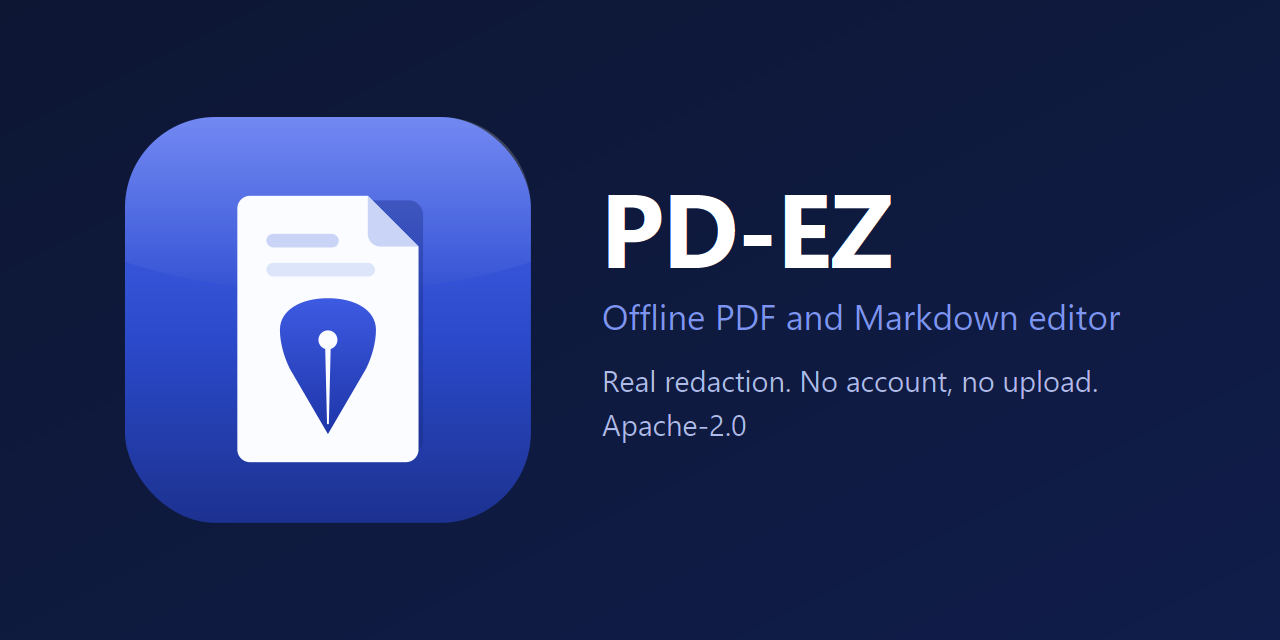
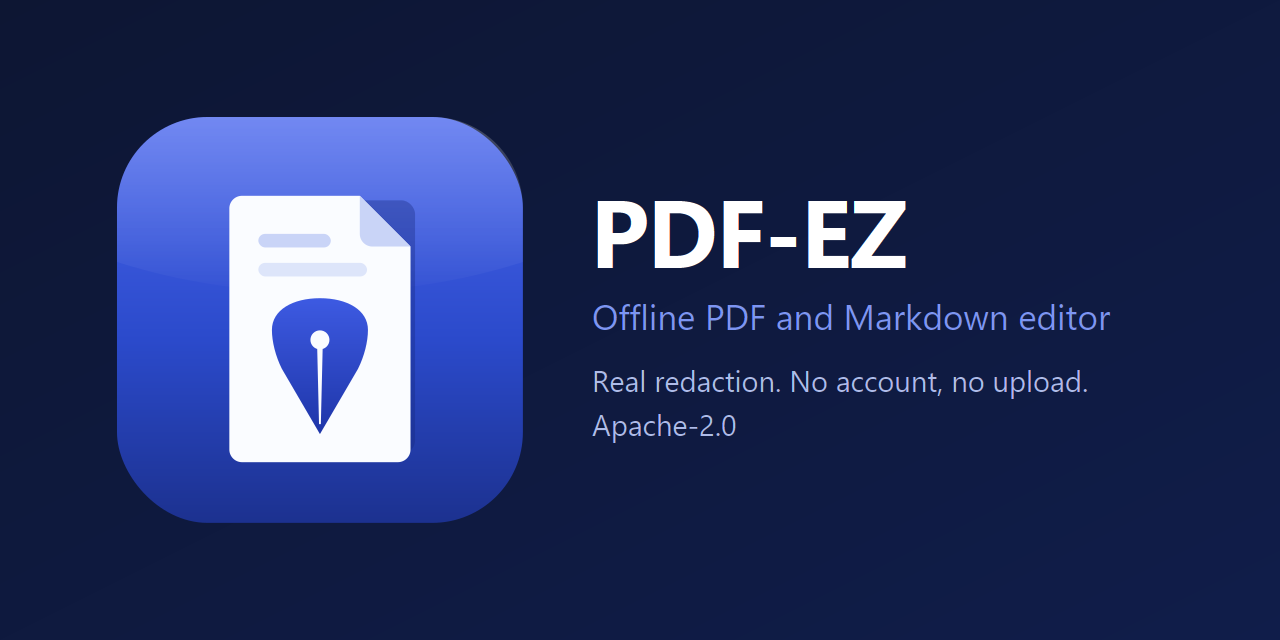
chore: rename the product PD-EZ -> PDF-EZ
Buga's call. "PDFer" was considered first and rejected: PDFer is already a
shipping PDF editor on Google Play (com.muzaffer.cinar.pdfer), so it would have
collided head-on in the same category. No exact PDF-EZ collision found.

DISPLAY NAME ONLY. The 41 "PD-EZ" strings across 19 files became "PDF-EZ".
The internal identifiers were deliberately left alone:

- `ai.zugabot.pdez` (tauri.conf.json identifier) — this is where Windows keys
  the app's data directory and the installer's upgrade path. Changing it
  orphans the settings and license lease of anyone who already installed, for
  zero user-visible benefit.
- `pdez` as the lease `product` field in license.rs — changing it would
  invalidate every lease already minted against the old string.
- `pd-ez` crate names and `pdez_lib` / `pdez_shell` — internal, and the
  shellext ones back COM class registration.

`pdez` still reads correctly as a slug for PDF-EZ, so the churn buys nothing
and the risk is real. If the identifier ever does need to change it should be
its own migration with a settings-move step, not a side effect of a rename.

Social preview card regenerated with the new wordmark.

Verified: cargo test 27 passed, 0 failed — unchanged from before the rename.

Claude-Session: https://claude.ai/code/session_01Q55Q2UoxGa82v3MCtEKD4W

diff --git a/src/components/PdfViewer.vue b/src/components/PdfViewer.vue
@@ -888,7 +888,7 @@ function applyInfo(info: DocInfo) {
 async function confirmDiscard(): Promise<boolean> {
   if (!dirty.value) return true;
   return confirm("You have unsaved changes. Discard them?", {
-    title: "PD-EZ",
+    title: "PDF-EZ",
     kind: "warning",
   });
 }
@@ -984,7 +984,7 @@ async function deleteSelection() {
   const indices = selectionList.value;
   if (!indices.length || !doc.value) return;
   const noun = indices.length === 1 ? `page ${indices[0] + 1}` : `${indices.length} pages`;
-  if (!(await confirm(`Delete ${noun}?`, { title: "PD-EZ", kind: "warning" }))) return;
+  if (!(await confirm(`Delete ${noun}?`, { title: "PDF-EZ", kind: "warning" }))) return;
   void mutate(() => api.deletePages(doc.value!.id, indices));
 }
 
@@ -1463,7 +1463,7 @@ onBeforeUnmount(() => {
       <div class="protect-card scan-card">
         <h2>Network &amp; privacy</h2>
         <p class="protect-hint">
-          PD-EZ runs entirely on this machine. Nothing you open, edit, or save
+          PDF-EZ runs entirely on this machine. Nothing you open, edit, or save
           is ever uploaded. The only features that can touch the network are the
           two below — both off unless you turn them on here.
         </p>

diff --git a/src/components/LicenseGate.vue b/src/components/LicenseGate.vue
@@ -10,8 +10,8 @@ const busy = ref(false);
 async function importLease() {
   error.value = null;
   const path = await open({
-    title: "Import PD-EZ license",
-    filters: [{ name: "PD-EZ license", extensions: ["lease"] }],
+    title: "Import PDF-EZ license",
+    filters: [{ name: "PDF-EZ license", extensions: ["lease"] }],
     multiple: false,
   });
   if (typeof path !== "string") return;
@@ -39,7 +39,7 @@ async function importLease() {
       </p>
       <div class="actions">
         <button class="primary" disabled title="Checkout launches with v1.0">
-          Buy PD-EZ — $4.99
+          Buy PDF-EZ — $4.99
         </button>
         <button :disabled="busy" @click="importLease">Import license file…</button>
       </div>

diff --git a/src/components/MarkdownEditor.vue b/src/components/MarkdownEditor.vue
@@ -90,7 +90,7 @@ const title = computed(() => {
 
 async function confirmDiscard(): Promise<boolean> {
   if (!dirty.value) return true;
-  return confirm("You have unsaved changes. Discard them?", { title: "PD-EZ", kind: "warning" });
+  return confirm("You have unsaved changes. Discard them?", { title: "PDF-EZ", kind: "warning" });
 }
 
 async function loadDocument(path: string) {

diff --git a/vite.config.ts b/vite.config.ts
@@ -14,7 +14,7 @@ export default defineConfig(async () => ({
   clearScreen: false,
   // 2. tauri expects a fixed port, fail if that port is not available
   server: {
-    // Port 3011 is allocated to PD-EZ in E:\Programming\PORT_REGISTRY.md
+    // Port 3011 is allocated to PDF-EZ in E:\Programming\PORT_REGISTRY.md
     port: 3011,
     strictPort: true,
     host: host || false,

diff --git a/src-tauri/src/winsign.rs b/src-tauri/src/winsign.rs
@@ -349,7 +349,7 @@ fn verifying_key_from_der(leaf_der: &[u8]) -> Result<rsa::pkcs1v15::VerifyingKey
     let spki = &cert.tbs_certificate.subject_public_key_info;
     if spki.algorithm.oid.to_string() != OID_RSA {
         return Err(
-            "This certificate uses an ECDSA key — PD-EZ signs with RSA store certificates for now"
+            "This certificate uses an ECDSA key — PDF-EZ signs with RSA store certificates for now"
                 .to_string(),
         );
     }
@@ -437,7 +437,7 @@ impl signature::Signer<rsa::pkcs1v15::Signature> for CngSigner {
 mod tests {
     use super::*;
 
-    /// Live end-to-end: for EVERY "PD-EZ CNG Test*" RSA cert in the store
+    /// Live end-to-end: for EVERY "PDF-EZ CNG Test*" RSA cert in the store
     /// (software-key and TPM-backed variants are minted by the test runner),
     /// sign a minimal PDF through the full store path and cryptographically
     /// verify the output. Skips silently when no test cert is present.
@@ -451,15 +451,15 @@ mod tests {
             }
         };
         let test_certs: Vec<_> =
-            certs.iter().filter(|c| c.subject.starts_with("PD-EZ CNG Test") && c.rsa).collect();
+            certs.iter().filter(|c| c.subject.starts_with("PDF-EZ CNG Test") && c.rsa).collect();
         if test_certs.is_empty() {
-            eprintln!("no PD-EZ CNG Test cert in CurrentUser\\MY — skipping");
+            eprintln!("no PDF-EZ CNG Test cert in CurrentUser\\MY — skipping");
             return;
         }
         for cert in test_certs {
             let params = crate::sign::SignParams {
                 reason: "CNG test".into(),
-                name: "PD-EZ".into(),
+                name: "PDF-EZ".into(),
                 location: "".into(),
             };
             let signed = crate::sign::sign_pdf_windows_store(

diff --git a/src-tauri/src/license.rs b/src-tauri/src/license.rs
@@ -84,7 +84,7 @@ pub fn load_lease(app_data_dir: &Path) -> Option<Lease> {
 /// release builds enforce the lease.
 /// Report license state. **Never gates the app.**
 ///
-/// PD-EZ went Apache-2.0 (2026-07-30); the $4.99 SKU it was built for is gone.
+/// PDF-EZ went Apache-2.0 (2026-07-30); the $4.99 SKU it was built for is gone.
 /// `licensed` is unconditionally true so no build path can lock a user out.
 /// The Ed25519 verification below still runs and still reports what it found —
 /// it is kept as a working reference for offline lease checking, and deleting
@@ -176,7 +176,7 @@ mod tests {
 pub fn activate_from_file(app_data_dir: &Path, lease_file: &Path) -> Result<LicenseStatus, String> {
     let raw = fs::read_to_string(lease_file).map_err(|e| format!("could not read file: {e}"))?;
     let lease: Lease =
-        serde_json::from_str(&raw).map_err(|_| "not a valid PD-EZ license file".to_string())?;
+        serde_json::from_str(&raw).map_err(|_| "not a valid PDF-EZ license file".to_string())?;
     verify_lease(&lease)?;
     fs::create_dir_all(app_data_dir).map_err(|e| format!("could not store license: {e}"))?;
     fs::write(lease_path(app_data_dir), &raw).map_err(|e| format!("could not store license: {e}"))?;

diff --git a/src-tauri/src/sign.rs b/src-tauri/src/sign.rs
@@ -391,7 +391,7 @@ pub(crate) mod test_support {
         let key = RsaPrivateKey::new(&mut rng, 1024).unwrap(); // small = fast test
         let signer = SigningKey::<Sha256>::new(key.clone());
         let spki = SubjectPublicKeyInfoOwned::from_key(key.to_public_key()).unwrap();
-        let subject = Name::from_str("CN=PD-EZ Test Root").unwrap();
+        let subject = Name::from_str("CN=PDF-EZ Test Root").unwrap();
         let validity = Validity::from_now(std::time::Duration::from_secs(3650 * 86_400)).unwrap();
         let builder = CertificateBuilder::new(
             Profile::Root,
@@ -581,7 +581,7 @@ mod tests {
         let pfx = make_test_pfx("zuga");
         let params = SignParams {
             reason: "Approved".to_string(),
-            name: "PD-EZ".to_string(),
+            name: "PDF-EZ".to_string(),
             location: "".to_string(),
         };
         let signed = sign_pdf(minimal_pdf(), &pfx, "zuga", &params).unwrap();

diff --git a/src-tauri/src/lib.rs b/src-tauri/src/lib.rs
@@ -410,7 +410,7 @@ fn set_settings(
 
 /// The document path Windows handed us via file association (double-click /
 /// "Open with"), if any. Association launches pass the document as the first
-/// argv. Covers both document types PD-EZ opens (PDF, Markdown).
+/// argv. Covers both document types PDF-EZ opens (PDF, Markdown).
 #[tauri::command]
 fn get_launch_file() -> Option<String> {
     std::env::args().skip(1).find(|a| {
@@ -512,5 +512,5 @@ pub fn run() {
             read_file_base64
         ])
         .run(tauri::generate_context!())
-        .expect("error while running PD-EZ");
+        .expect("error while running PDF-EZ");
 }

diff --git a/src-tauri/src/settings.rs b/src-tauri/src/settings.rs
@@ -1,6 +1,6 @@
 //! User settings, persisted as `settings.json` in the app data directory.
 //!
-//! The whole point of this module is the network contract: PD-EZ is offline
+//! The whole point of this module is the network contract: PDF-EZ is offline
 //! by default and the ONLY features that may ever touch the network are the two
 //! flags below — both off until the user turns them on. Every online action
 //! must pass [`require`] first, so a feature can never quietly dial out.

diff --git a/shellext/src/md_engine.rs b/shellext/src/md_engine.rs
@@ -26,7 +26,7 @@ fn rgb(r: u8, g: u8, b: u8) -> COLORREF {
 }
 
 const INK: (u8, u8, u8) = (42, 42, 40); // body text
-const ACCENT: (u8, u8, u8) = (0x2b, 0x4a, 0xcb); // headings — PD-EZ accent-ink
+const ACCENT: (u8, u8, u8) = (0x2b, 0x4a, 0xcb); // headings — PDF-EZ accent-ink
 const DIM: (u8, u8, u8) = (90, 87, 76); // quotes
 const PAPER: (u8, u8, u8) = (0xfb, 0xfa, 0xf7); // background, matches the in-app canvas
 const CODE_BG: (u8, u8, u8) = (0xef, 0xec, 0xe2);

diff --git a/shellext/src/lib.rs b/shellext/src/lib.rs
@@ -1,4 +1,4 @@
-//! pdez_shell.dll — PD-EZ's Explorer integration (PDF + Markdown thumbnails
+//! pdez_shell.dll — PDF-EZ's Explorer integration (PDF + Markdown thumbnails
 //! and preview pane). PDF pages render via the same PDFium build the app
 //! ships; Markdown renders via a lightweight GDI text rasterizer (md_engine).
 //! Both document types share the same two COM classes — `Initialize()`

diff --git a/src-tauri/src/timestamp.rs b/src-tauri/src/timestamp.rs
@@ -277,7 +277,7 @@ mod tests {
         let pfx = make_test_pfx("zuga");
         let params = SignParams {
             reason: "Approved".to_string(),
-            name: "PD-EZ".to_string(),
+            name: "PDF-EZ".to_string(),
             location: "".to_string(),
         };
         let signed = sign_pdf(minimal_pdf(), &pfx, "zuga", &params).unwrap();
